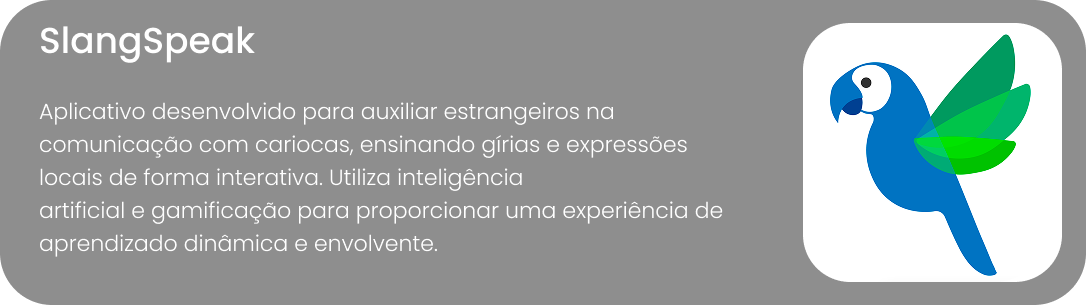
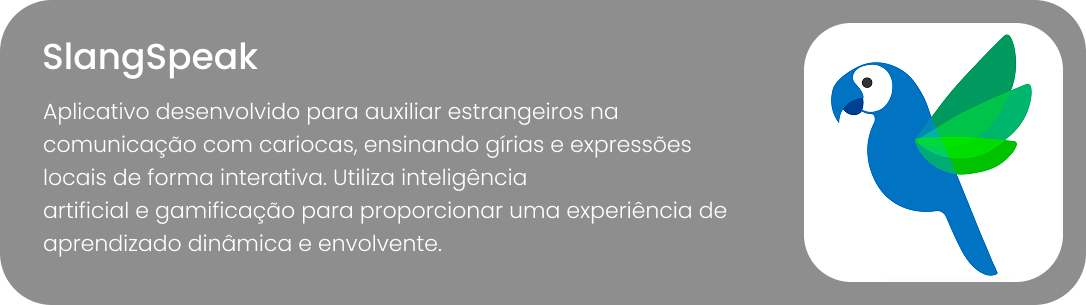
Deixei responsivo

diff --git a/style.css b/style.css
@@ -10,6 +10,7 @@ html, body {
 
 .textPortfolio {
     color: white;
+    font-size: 2.8vw;
 }
 
 .gallery {
@@ -17,16 +18,16 @@ html, body {
     flex-direction: column;
     align-items: center;
     gap: 20px;
-    padding: 20px;
+    padding: 3%;
 }
 
 .gallery img {
-    width: 1000px;
+    width: 100%;
     height: auto;
     transition: transform 0.3s ease-in-out;
-    box-shadow: 0 4px 8px rgba(0, 0, 0, 0.2);
-    padding: 20px;
+    padding: 2%;
 }
+
 
 .gallery img:hover {
     transform: scale(1.03);
@@ -37,14 +38,14 @@ html, body {
 
 .page-content {
     text-align: center;
-    margin-top: 50px;
+    margin-top: 1%;
 }
 
 button {
     background-color: #007bff;
     color: white;
-    padding: 10px 20px;
-    font-size: 16px;
+    padding: 1% 2%;
+    font-size: 1.5vw;
     border: none;
     border-radius: 5px;
     cursor: pointer;
@@ -63,15 +64,14 @@ button:hover {
     flex-direction: column;
     align-items: center;
     gap: 20px;
-    padding: 20px;
+    padding: 3%;
 }
 
 .paginas img {
-    width: 1000px;
+    width: 90%;
     height: auto;
     transition: transform 0.3s ease-in-out;
-    box-shadow: 0 4px 8px rgba(0, 0, 0, 0.2);
-    padding: 20px;
+    padding: 1%;
 }
 
 .link-container {
@@ -84,7 +84,7 @@ button:hover {
     top: 55%; /* Centraliza na vertical */
     right: 60%; /* Centraliza na horizontal */
     transform: translate(-50%, -50%); /* Garante que o link fique no centro da imagem */
-    font-size: 20px;
+    font-size: 1.5vw;
     color: white; /* Ajuste a cor conforme necessário */    
 }
 
@@ -93,6 +93,6 @@ button:hover {
     top: 55%; /* Centraliza na vertical */
     right: 54%; /* Centraliza na horizontal */
     transform: translate(-50%, -50%); /* Garante que o link fique no centro da imagem */
-    font-size: 20px;
+    font-size: 1.5vw;
     color: white; /* Ajuste a cor conforme necessário */ 
 }
